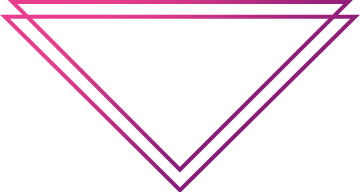
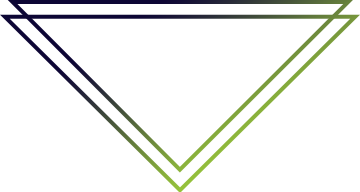
invasion

diff --git a/index.html b/index.html
@@ -50,9 +50,9 @@
     <div class="container">
       <div class="row">
         <div class="col-xs-12 col-xs-offset-0 col-md-10 col-md-offset-1 col-lg-8 col-lg-offset-2 wow fadeIn">
-          <h1 class="hero__header">BH SKATE</br>INVASION 2017</span></h1>
+          <h1 class="hero__header"><img src="pics/logo.png"></h1>
           <p class="hero__subheader">Inauguração da Reforma da Pista da Lagoa do Nado em BH!</p>
-          <a class="button button__hero" href="#inscricoes">Inscrever <!--<i class="fa fa-arrow-circle-o-right"></i>--></a>
+          <a class="button button__hero" target="_blank" href="https://goo.gl/forms/AFPv3NclytsyNUWi2">Pré-Inscrição <!--<i class="fa fa-arrow-circle-o-right"></i>--></a>
         </div>
       </div>
     </div>
@@ -225,7 +225,7 @@
             </div>
             <div class="price__card-bottom">
               <p class="price__card-price">R$ 45,00</p>
-              <a href="#" class="price__card-btn button button__standart">Inscrever</a>
+              <a href="https://goo.gl/forms/AFPv3NclytsyNUWi2" target="_blank" class="price__card-btn button button__standart">Pré-Inscrição</a>
             </div>
           </div>
         </div>
@@ -253,13 +253,15 @@
   <div class="container">
     <h2 class="layout__section-header layout__section-header--decorated">patrocinadores</h2>
     <div id="lightgallery" class="gallery__container">
-      <a href="pics/fest-gallery-1.jpg" class="gallery__item gallery__item--big"><img src="pics/fest-gallery-1.jpg" alt="Gallery placeholder" class="gallery__image"></a>
-      <a href="pics/fest-gallery-2.jpg" class="gallery__item gallery__item--big"><img src="pics/fest-gallery-2.jpg" alt="Gallery placeholder" class="gallery__image"></a>
-      <a href="pics/fest-gallery-3.jpg" class="gallery__item gallery__item--big"><img src="pics/fest-gallery-3.jpg" alt="Gallery placeholder" class="gallery__image"></a>
+      <a href="https://prefeitura.pbh.gov.br/" target="_blank" class="gallery__item gallery__item--big"><img src="pics/fest-gallery-1.jpg" alt="Prefeitura de Belo Horizonte" class="gallery__image"></a>
+      <a href="http://www.urgh.com.br/" target="_blank" class="gallery__item gallery__item--big"><img src="pics/fest-gallery-4.jpg" alt="URGH" class="gallery__image"></a>
       
-    <a href="pics/fest-gallery-4.jpg" class="gallery__item gallery__item--big"><img src="pics/fest-gallery-4.jpg" alt="Gallery placeholder" class="gallery__image"></a>
-      <a href="pics/fest-gallery-5.jpg" class="gallery__item gallery__item--big"><img src="pics/fest-gallery-5.jpg" alt="Gallery placeholder" class="gallery__image"></a>
-      <a href="pics/fest-gallery-5.jpg" class="gallery__item gallery__item--big"><img src="pics/fest-gallery-5.jpg" alt="Gallery placeholder" class="gallery__image"></a> 
+      <a href="pics/fest-gallery-5.jpg" target="_blank" class="gallery__item gallery__item--big"><img src="pics/fest-gallery-5.jpg" alt="Gallery placeholder" class="gallery__image"></a>
+      <a href="pics/fest-gallery-5.jpg" target="_blank" class="gallery__item gallery__item--big"><img src="pics/fest-gallery-5.jpg" alt="Gallery placeholder" class="gallery__image"></a> 
+
+      <a href="https://www.facebook.com/Skate-Rampas-1761461634085929/" target="_blank" class="gallery__item gallery__item--big"><img src="pics/fest-gallery-2.jpg" alt="Skate Rampas" class="gallery__image"></a>
+      <a href="https://www.youtube.com/oldbastard?sub_confirmation=1" target="_blank" class="gallery__item gallery__item--big"><img src="pics/fest-gallery-3.jpg" alt="OldBastard" class="gallery__image"></a>
+      
     </div>
   </div>
 </div>
@@ -268,10 +270,17 @@
   <div class="container">
     <h2 class="layout__section-header layout__section-header--decorated">apoio</h2>
     <div id="lightgallery" class="gallery__container">
-      <a href="pics/fest-gallery-6.jpg" class="gallery__item gallery__item--small"><img src="pics/fest-gallery-6.jpg" alt="Gallery placeholder" class="gallery__image"></a>
-      <a href="pics/fest-gallery-6.jpg" class="gallery__item gallery__item--small"><img src="pics/fest-gallery-6.jpg" alt="Gallery placeholder" class="gallery__image"></a>
-      <a href="pics/fest-gallery-6.jpg" class="gallery__item gallery__item--small"><img src="pics/fest-gallery-6.jpg" alt="Gallery placeholder" class="gallery__image"></a>
-      <a href="pics/fest-gallery-6.jpg" class="gallery__item gallery__item--small"><img src="pics/fest-gallery-6.jpg" alt="Gallery placeholder" class="gallery__image"></a>
+      <a href="http://www.cbsk.com.br/" target="_blank" class="gallery__item gallery__item--small"><img src="pics/fest-gallery-cbsk.jpg" alt="CBSK" class="gallery__image"></a>
+      <a href="https://www.facebook.com/fesktmg" target="_blank" class="gallery__item gallery__item--small"><img src="pics/fest-gallery-fesktmg.jpg" alt="FESKTMG" class="gallery__image"></a>
+      <a href="http://www.minasnoskate.com.br/" target="_blank" class="gallery__item gallery__item--small"><img src="pics/fest-gallery-mns.jpg" alt="Minas no Skate" class="gallery__image"></a>
+      <a href="pics/fest-gallery-6.jpg" target="_blank" class="gallery__item gallery__item--small"><img src="pics/fest-gallery-6.jpg" alt="Gallery placeholder" class="gallery__image"></a>
+      
+
+      
+      <a href="pics/fest-gallery-6.jpg" target="_blank" class="gallery__item gallery__item--small"><img src="pics/fest-gallery-6.jpg" alt="Gallery placeholder" class="gallery__image"></a>
+      <a href="pics/fest-gallery-6.jpg" target="_blank" class="gallery__item gallery__item--small"><img src="pics/fest-gallery-6.jpg" alt="Gallery placeholder" class="gallery__image"></a>
+      <a href="pics/fest-gallery-6.jpg" target="_blank" class="gallery__item gallery__item--small"><img src="pics/fest-gallery-6.jpg" alt="Gallery placeholder" class="gallery__image"></a>
+      <a href="pics/fest-gallery-6.jpg" target="_blank" class="gallery__item gallery__item--small"><img src="pics/fest-gallery-6.jpg" alt="Gallery placeholder" class="gallery__image"></a>
       
 <!--       <a href="pics/fest-gallery-4.jpg" class="gallery__item gallery__item--small"><img src="pics/fest-gallery-4.jpg" alt="Gallery placeholder" class="gallery__image"></a>
       <a href="pics/fest-gallery-5.jpg" class="gallery__item gallery__item--small"><img src="pics/fest-gallery-5.jpg" alt="Gallery placeholder" class="gallery__image"></a>
@@ -350,7 +359,7 @@
     </div>
     <div class="row">
       <div class="page-footer__copyright   col-xs-12">
-        <p>Realização OldBastard</p>
+        <p><img src="img/oldbastard.png"></p>
       </div>
     </div>
   </div>

diff --git a/css/theme.css b/css/theme.css
@@ -15791,7 +15791,7 @@ button.close {
 .layout__about-screen {
   position: relative;
   padding: 0px 0px 124px 0px;
-  background-color: #631b71;
+  background-color: #130e37;
 }
 @media screen and (min-width: 992px) {
   .layout__about-screen {
@@ -15806,7 +15806,7 @@ button.close {
 }
 .layout__schedule-screen {
   padding: 100px 0px 40px 0px;
-  background-color: #111111;
+  background-color: #1d1946;
 }
 @media screen and (min-width: 480px) {
   .layout__schedule-screen {
@@ -15817,11 +15817,11 @@ button.close {
   margin-bottom: 65px;
 }
 .layout__video-screen {
-  background: #111111;
+  background: #1d1946;
 }
 .layout__price-screen {
   padding: 100px 0px 40px 0px;
-  background-color: #111111;
+  background-color: #1d1946;
 }
 @media screen and (min-width: 480px) {
   .layout__price-screen {
@@ -15833,14 +15833,14 @@ button.close {
 }
 .layout__gallery-screen {
   padding: 70px 0px 100px 0px;
-  background-color: #111111;
+  background-color: #1d1946;
 }
 .layout__gallery-screen .layout__section-header {
   margin-bottom: 70px;
 }
 .layout__contacts-screen {
   padding: 70px 0px 0px 0px;
-  background-color: #111111;
+  background-color: #1d1946;
 }
 .layout__contacts-screen .layout__section-header {
   margin-bottom: 70px;
@@ -15865,15 +15865,15 @@ button.close {
   left: 0;
   right: 0;
   bottom: 0;
-  background: #682576;
+/*  background: #1d1946;*/
   opacity: 0.6;
   pointer-events: none;
 }
-@supports ((-webkit-filter: hue-rotate(60deg)) or (filter: hue-rotate(60deg))) {
+/*@supports ((-webkit-filter: hue-rotate(60deg)) or (filter: hue-rotate(60deg))) {
   .layout__map-screen::after {
-    background: #001d61;
+    background: #1d1946;
   }
-}
+}*/
 .layout__map-screen #footer-map {
   height: 100%;
 }
@@ -15891,7 +15891,7 @@ button.close {
   transition: all 0.3s;
 }
 .socials__link:hover {
-  color: #682576;
+  color: #a9c94a;
 }
 .button {
   display: inline-block;
@@ -15940,7 +15940,7 @@ button.close {
   border: none;
   margin: 0;
   z-index: 10;
-  background-color: #631b71;
+  background-color: #130e37;
   background-size: cover;
   background-repeat: no-repeat;
 }
@@ -15982,13 +15982,13 @@ button.close {
   height: 0;
   border-style: solid;
   border-width: 0 0 200px 100vw;
-  border-color: transparent transparent #631b71 transparent;
+  border-color: transparent transparent #130e37 transparent;
   bottom: 0;
   right: 0;
   box-shadow: inset 0px 1px 3px 0px #1f1f1f;
 }
 .page-header--is-shown .page-header__background {
-  background: #631b71;
+  background: #130e37;
   background-image: none;
   opacity: 0.9;
   background-image: none !important;
@@ -16123,8 +16123,8 @@ button.close {
   }
 }
 .page-footer {
-  padding-top: 64px;
-  background-color: #000000;
+  padding-top: 25px;
+  background-color: #1d1946;
   color: #ffffff;
 }
 .page-footer__header {
@@ -16209,7 +16209,7 @@ button.close {
   width: 35%;
   vertical-align: bottom;
   padding: 14px 0px 13px 0px;
-  border: 3px solid #682576;
+  border: 3px solid #a9c94a;
   border-radius: 30px;
   background: transparent;
   text-transform: uppercase;
@@ -16219,20 +16219,25 @@ button.close {
   transition: all 0.3s;
 }
 .page-footer__form input[type="submit"]:hover {
-  background: #682576;
+  background: #a9c94a;
   color: #ffffff;
 }
 .page-footer__copyright {
   margin-bottom: 25px;
-  text-align: center;
+  text-align: right;
 }
+
+.page-footer__copyright img {
+  height: 30px
+}
+
 .page-footer__copyright p {
   color: #898888;
 }
 .hero {
   padding: 0px 0px 280px 0px;
   text-align: center;
-  margin-top: 120px;
+  margin-top: 40px;
 }
 .hero__header {
   text-align: center;
@@ -16242,6 +16247,10 @@ button.close {
   color: #ffffff;
   text-shadow: 1px 10px 0px rgba(150, 150, 150, 0.3);
 }
+.hero__header img {
+  height: 70%;
+}
+
 .hero__subheader {
   text-align: center;
   font-family: "Oswald", Times, Georgia, serif;
@@ -16300,7 +16309,7 @@ button.close {
   font-family: "Oswald", Times, Georgia, serif;
   font-size: 36px;
   line-height: 1;
-  color: #f6448f;
+  color: #a9c94a;
   text-transform: uppercase;
   letter-spacing: 0.2em;
 }
@@ -16321,7 +16330,7 @@ button.close {
 .about__timer-wrap::before {
   content: "";
   position: absolute;
-  border: 3px solid #4d1558;
+  border: 3px solid #a9c94a;
   top: 12px;
   bottom: -15px;
   right: -15px;
@@ -16379,7 +16388,7 @@ button.close {
   font-family: "Oswald", Times, Georgia, serif;
   font-size: 72px;
   font-weight: 300;
-  color: #682576;
+  color: #a9c94a;
 }
 .schedule__event-order span {
   font-weight: 700;
@@ -16462,7 +16471,7 @@ button.close {
   line-height: 1;
   font-family: "Oswald", Times, Georgia, serif;
   font-weight: bold;
-  color: #8c3e9d;
+  color: #a9c94a;
 }
 .schedule__event-heading {
   margin-bottom: 15px;
@@ -16524,7 +16533,7 @@ button.close {
 .schedule__image-block figcaption {
   position: absolute;
   bottom: 26px;
-  color: #682576;
+  color: #a9c94a;
   font-weight: 700;
   font-size: 36px;
   line-height: 1;
@@ -16552,7 +16561,7 @@ button.close {
   width: 100%;
   height: 660px;
   overflow: hidden;
-  background: #111111;
+  background: #1d1946;
   vertical-align: middle;
 }
 .video-block:hover .video-block__play--is-playing {
@@ -16788,13 +16797,13 @@ button.close {
 }
 .price__card {
   padding: 2px;
-  background: linear-gradient(to bottom, #ef017c 0%, #631b71 100%);
+  background: linear-gradient(to bottom, #a9c94a 0%, #130e37 100%);
   height: 100%;
 }
 .price__card-inner {
   text-align: center;
   padding: 80px 50px 80px 50px;
-  background: #111111;
+  background: #1d1946;
   height: 100%;
   display: -ms-flexbox;
   display: flex;
@@ -16807,7 +16816,7 @@ button.close {
   margin-bottom: 30px;
   font-size: 48px;
   line-height: 1;
-  color: #883c98;
+  color: #a9c94a;
   font-family: "Oswald", Times, Georgia, serif;
   text-transform: uppercase;
   font-weight: 700;
@@ -16859,7 +16868,7 @@ button.close {
   opacity: 0.9;
 }
 .gallery__item::before {
-  content: "\f00e";
+  content: "\f08e";
   position: absolute;
   font-family: "FontAwesome";
   width: 35px;
@@ -16882,7 +16891,7 @@ button.close {
   left: 0;
   right: 0;
   bottom: 0;
-  background: linear-gradient(135deg, #71337e 0%, #fa6a80 100%);
+  background: linear-gradient(135deg, #130e37 0%, #a9c94a 100%);
   z-index: 2;
   opacity: 0;
   transition: all 0.3s;

diff --git a/js/scripts.js b/js/scripts.js
@@ -32,9 +32,9 @@ $(document).ready(function () {
   };
 
   // lightGallery inicialization
-  if (document.getElementById('lightgallery')) {
-     $("#lightgallery").lightGallery();
-  }
+  // if (document.getElementById('lightgallery')) {
+  //    $("#lightgallery").lightGallery();
+  // }
 
   // Main nav menu actions
   var toggleMenu = function() {
